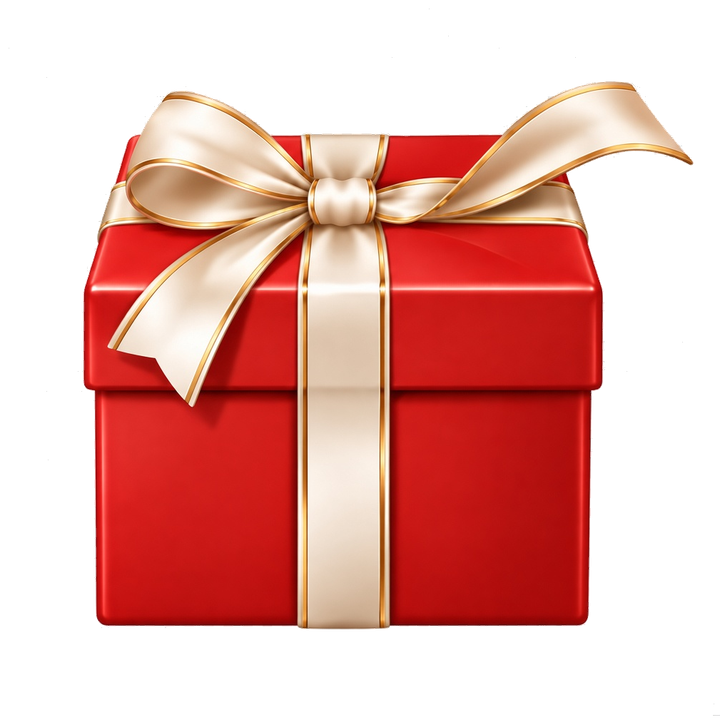
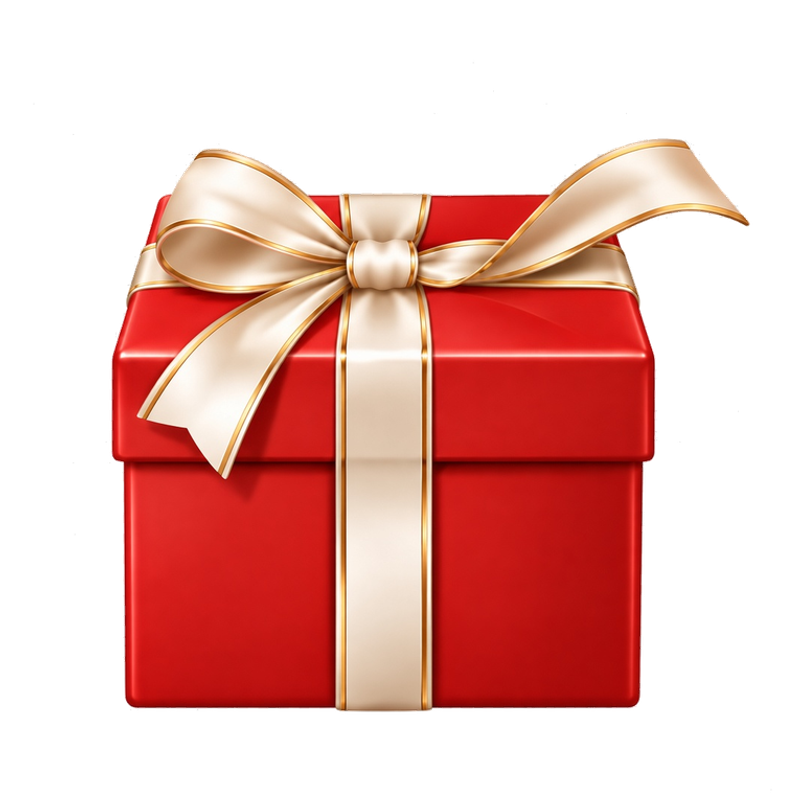
Match all four gift photos to the same box size.

Changed region(s): [[0.0917, 0.0917, 0.9778, 0.9167]]

diff --git a/index.html b/index.html
@@ -13,7 +13,7 @@
   <title>kitegamemode.kr</title>
   <link rel="canonical" href="https://kitegamemode.kr/">
   <link rel="stylesheet" href="https://cdn.jsdelivr.net/gh/orioncactus/pretendard@v1.3.9/dist/web/static/pretendard.min.css">
-  <link rel="stylesheet" href="style.css?v=100">
+  <link rel="stylesheet" href="style.css?v=101">
 </head>
 <body>
   <main class="app">
@@ -63,14 +63,14 @@
         <div class="joke-drum__kit">
           <span class="joke-drum__stick is-left"></span>
           <span class="joke-drum__stick is-right"></span>
-          <img class="joke-drum__img" src="assets/snare.png?v=100" alt="">
+          <img class="joke-drum__img" src="assets/snare.png?v=101" alt="">
         </div>
         <p class="joke-suspense" id="jokeSuspense"></p>
       </div>
       <div class="joke-party" id="jokeParty" hidden aria-hidden="true"></div>
       <div class="joke-gift-fly" id="jokeGiftFly" hidden>
         <div class="joke-gift-wiggle">
-        <img class="joke-gift-photo" id="jokeGiftPhoto" src="assets/gift-4.png?v=100" alt="">
+        <img class="joke-gift-photo" id="jokeGiftPhoto" src="assets/gift-4.png?v=101" alt="">
         <div class="gift" id="jokeGift" data-step="0" data-layer="0">
           <div class="gift-inner"></div>
           <div class="gift-paper">
@@ -113,7 +113,7 @@
   </main>
   <script src="https://unpkg.com/peerjs@1.5.4/dist/peerjs.min.js"></script>
   <script src="https://unpkg.com/mqtt@5.10.4/dist/mqtt.min.js"></script>
-  <script src="accounts.js?v=100"></script>
-  <script src="script.js?v=100"></script>
+  <script src="accounts.js?v=101"></script>
+  <script src="script.js?v=101"></script>
 </body>
 </html>

diff --git a/style.css b/style.css
@@ -1236,9 +1236,10 @@ body.is-admin .app {
 .joke-gift-photo {
   position: relative;
   z-index: 4;
-  width: 168px;
-  height: 168px;
+  width: 180px;
+  height: 180px;
   object-fit: contain;
+  object-position: center 78%;
   pointer-events: none;
   filter: drop-shadow(0 10px 14px rgba(70, 52, 28, 0.16));
 }
@@ -1327,8 +1328,8 @@ body.is-admin .app {
   z-index: 30;
   display: grid;
   place-items: center;
-  width: 168px;
-  height: 168px;
+  width: 180px;
+  height: 180px;
   transition: opacity 0.45s ease, filter 0.45s ease;
   margin: 0;
   pointer-events: none;

diff --git a/script.js b/script.js
@@ -1008,7 +1008,7 @@ function setJokeGiftFrame(frame) {
     return;
   }
 
-  const src = `assets/gift-${frame}.png?v=100`;
+  const src = `assets/gift-${frame}.png?v=101`;
   if (photo.getAttribute("src") !== src) {
     photo.src = src;
   }
